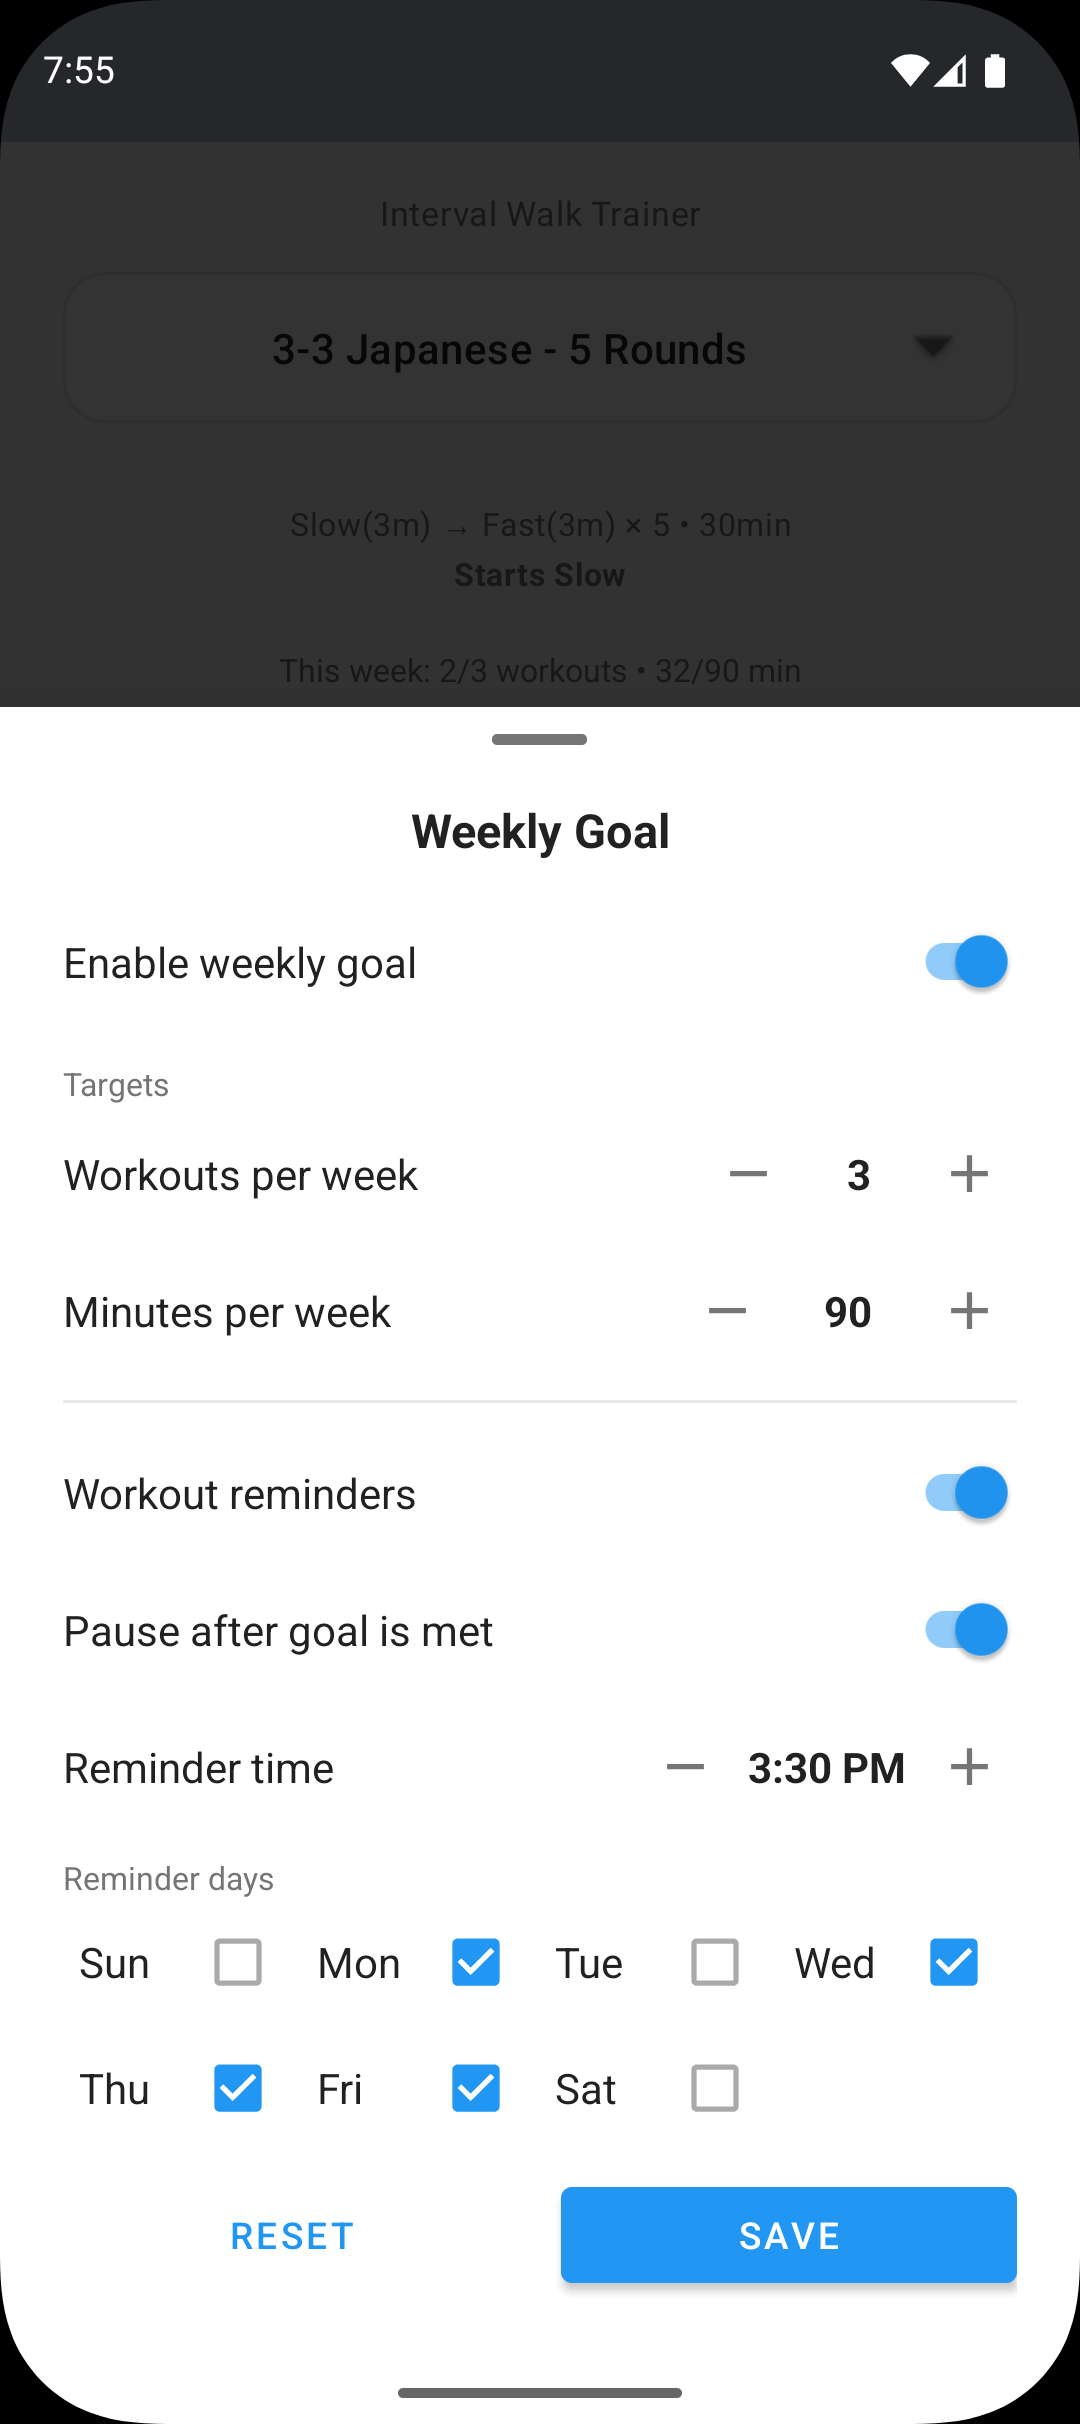
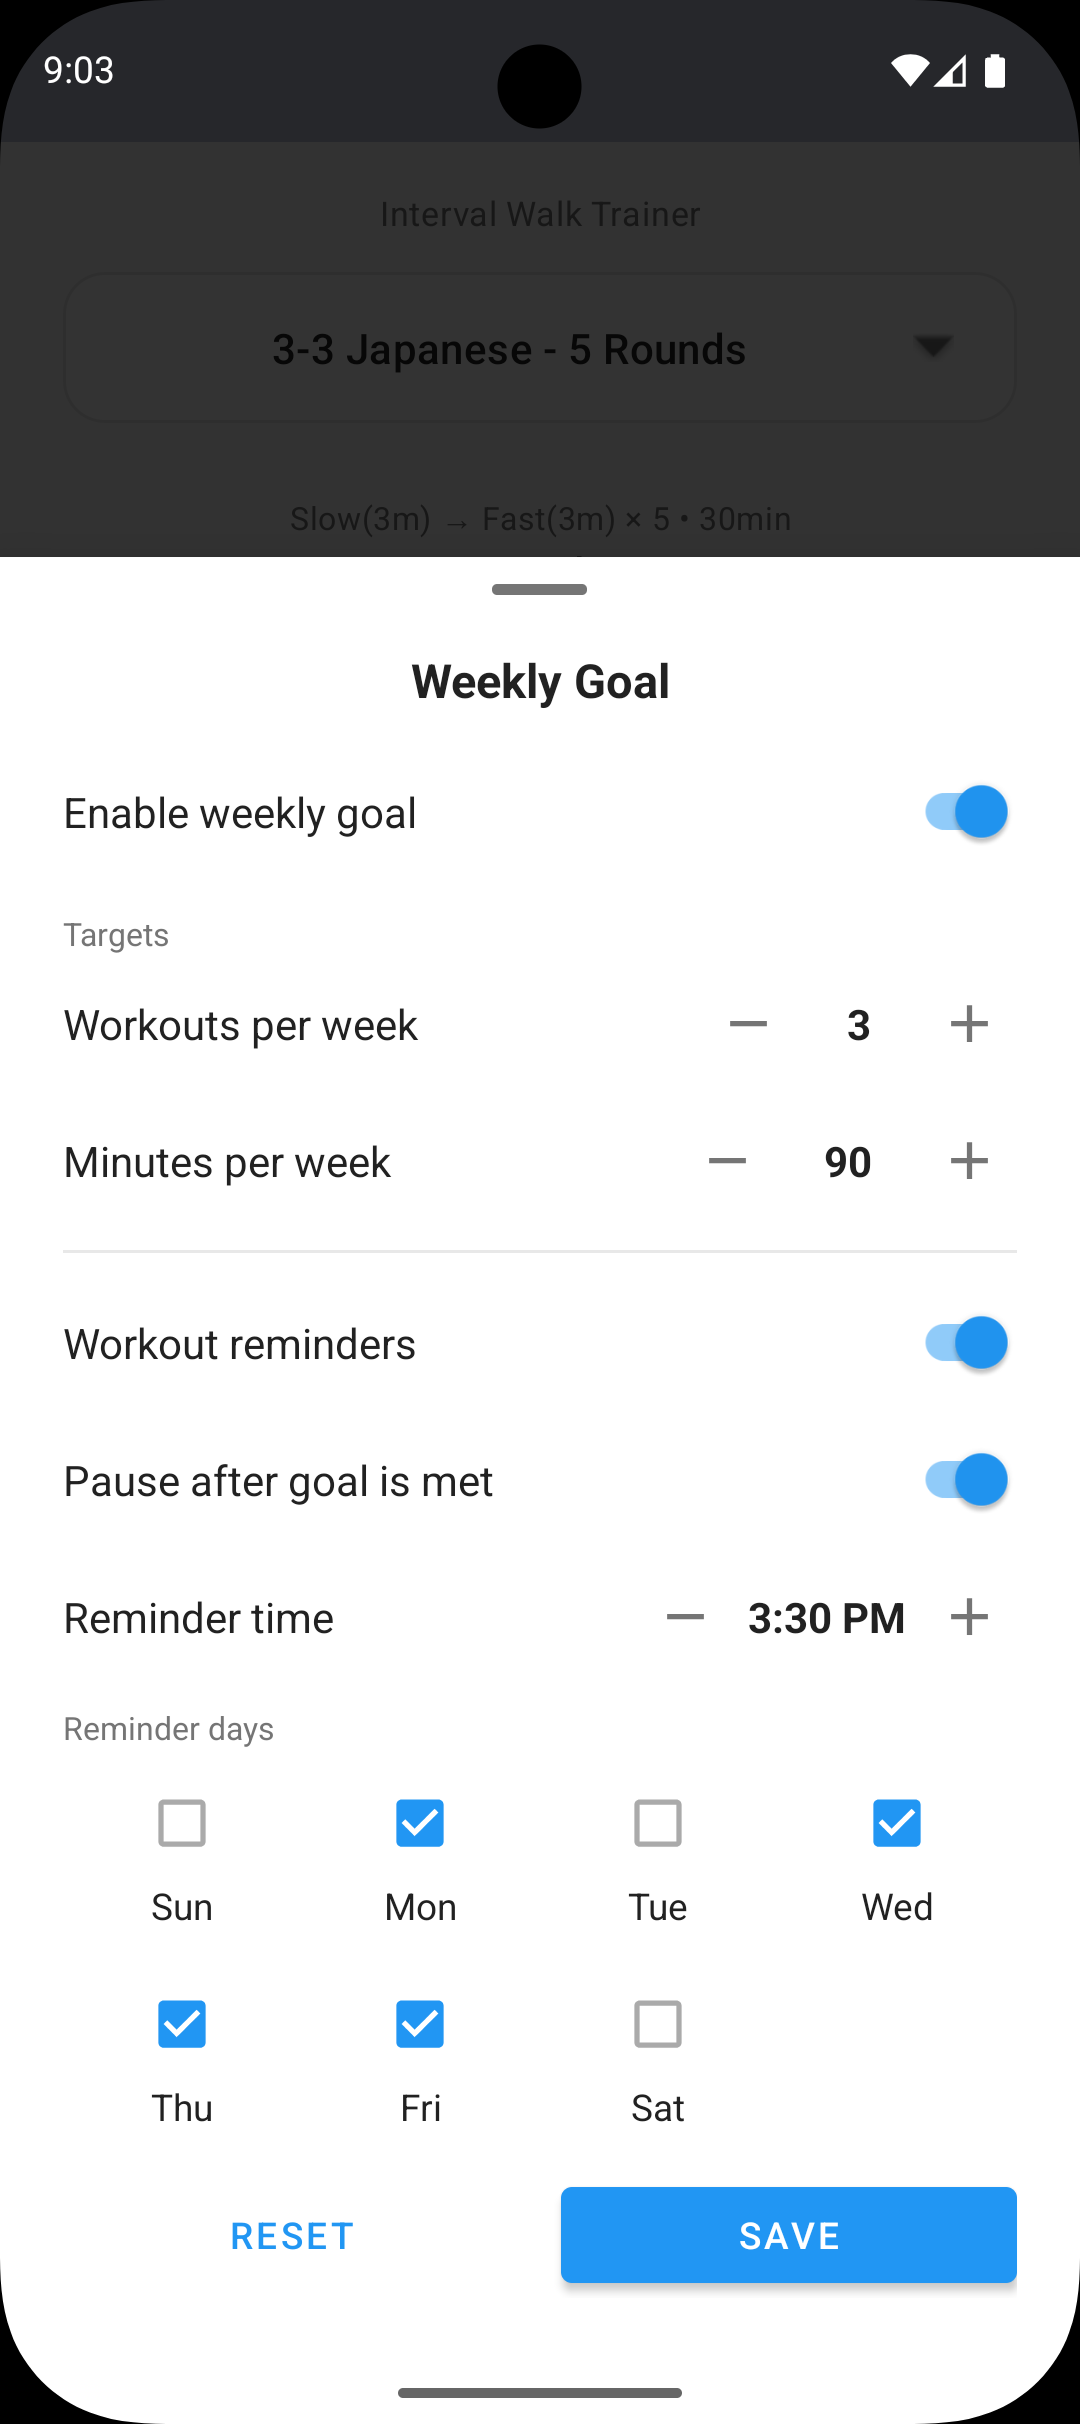
feat(release): v1.3.3
Fix weekly goal reminder-day wrapping on narrow phones, update store assets, and repair optimize-screenshots.sh under sh.

diff --git a/CHANGELOG.md b/CHANGELOG.md
@@ -2,6 +2,17 @@
 
 ## Version 1
 
+### 1.3.3 - 2026-05-22
+
+#### UI/UX Improvements
+
+- **Weekly goal reminder days:** Stacked each reminder-day checkbox above its label in the compact grid so day names stay on one line on narrow phones.
+- Store screenshots and promo images updated to reflect the weekly goal reminder-days layout change.
+
+#### Chore
+
+- **Screenshot tooling:** Fixed `optimize-screenshots.sh` failing under `sh` with a syntax error when collecting changed PNG files.
+
 ### 1.3.2 - 2026-05-22
 
 #### UI/UX Improvements
